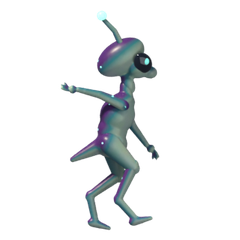
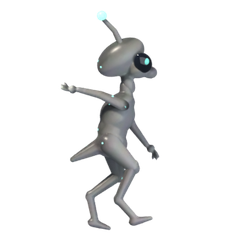
Couleurs génétiques variées
La créature est désormais rendue en niveaux de gris et colorisée en jeu
par une palette tirée de ses gènes : teinte principale, teinte
secondaire, saturation, luminosité et couleur des parties lumineuses
(yeux, antennes, taches). Fini les créatures toutes sombres ; les
couleurs se transmettront aux enfants.

Claude-Session: https://claude.ai/code/session_01MAppfGnRnr8qw2kENJWVLu

diff --git a/art/blender/creature.py b/art/blender/creature.py
@@ -175,11 +175,12 @@ def skin_material(root):
     l.new(nsep.outputs["X"], side.inputs[1])
     ramp = n.new("ShaderNodeValToRGB")
     ramp.color_ramp.elements[0].position = 0.25
-    ramp.color_ramp.elements[0].color = (0.62, 0.8, 0.62, 1)    # ventre vert d'eau
+    # Rendu en niveaux de gris : le jeu colorise selon les gènes.
+    ramp.color_ramp.elements[0].color = (0.85, 0.85, 0.85, 1)   # ventre clair
     ramp.color_ramp.elements[1].position = 0.6
-    ramp.color_ramp.elements[1].color = (0.04, 0.32, 0.38, 1)    # flancs bleu-vert
+    ramp.color_ramp.elements[1].color = (0.42, 0.42, 0.42, 1)   # flancs
     e = ramp.color_ramp.elements.new(0.85)
-    e.color = (0.16, 0.04, 0.3, 1)                              # dos violet sombre
+    e.color = (0.16, 0.16, 0.16, 1)                             # dos sombre
     to01 = n.new("ShaderNodeMapRange")
     to01.inputs["From Min"].default_value = -1.0
     to01.inputs["From Max"].default_value = 1.0
@@ -230,10 +231,10 @@ def skin_material(root):
     bsdf.inputs["Coat Weight"].default_value = 0.25
     bsdf.inputs["Coat Roughness"].default_value = 0.3
     bsdf.inputs["Subsurface Weight"].default_value = 0.25
-    bsdf.inputs["Subsurface Radius"].default_value = (0.2, 0.35, 0.3)
+    bsdf.inputs["Subsurface Radius"].default_value = (0.3, 0.3, 0.3)
     bsdf.inputs["Subsurface Scale"].default_value = 0.05
     # Reflets irisés
-    bsdf.inputs["Thin Film Thickness"].default_value = 420.0
+    bsdf.inputs["Thin Film Thickness"].default_value = 0.0      # pas d'irisation : elle colorerait le gris
     bsdf.inputs["Thin Film IOR"].default_value = 1.45
     return mat
 

diff --git a/tools/make_starter_genome.py b/tools/make_starter_genome.py
@@ -155,7 +155,10 @@ instinct("Sommeil", "", "dormir")
 instinct("Ennui", "jouet", "pousser", 1.0, 4)
 instinct("Ennui", "", "explorer", 0.8, 3)
 instinct("Douleur", "", "rien", 0.5, 2)
-gene("apparence", {"part": "corps", "hue": 0.5, "size": 0.5, "speed": 0.5})
+# Couleurs : teinte principale, teinte secondaire (ventre, reflets),
+# saturation, luminosité et couleur des parties lumineuses. Tirées au hasard pour chaque nouvelle créature.
+gene("apparence", {"part": "corps", "hue": 0.5, "hue2": 0.6, "saturation": 0.7,
+                   "brightness": 0.7, "glow": 0.47, "size": 0.5, "speed": 0.5})
 
 catalog = [{"id": i + 1, "name": n, "family": f} for i, (n, f, _h, _v) in enumerate(CHEMICALS)]
 (ROOT / "data").mkdir(exist_ok=True)
